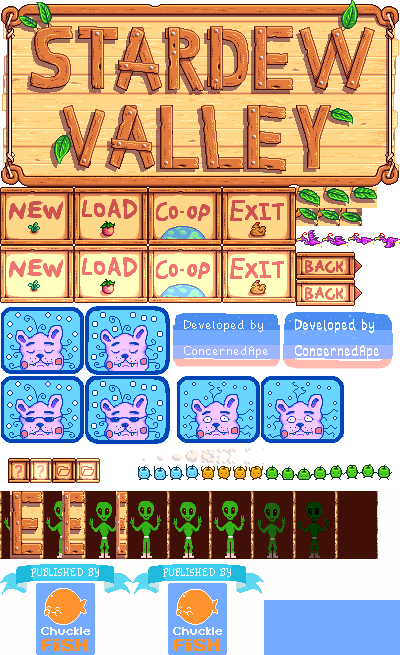
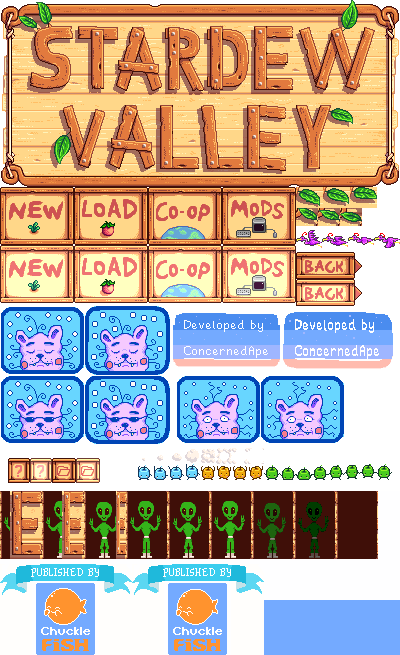
Added new texture to Mods Button & Moved Mods Folder button to left side... Also added a Mods count on the Mods Menu

Changed region(s): [[0.57, 0.3969, 0.72, 0.458], [0.57, 0.3053, 0.72, 0.3664]]

diff --git a/Mods/ModLoaderMod/Menus/ModMenu.cs b/Mods/ModLoaderMod/Menus/ModMenu.cs
@@ -27,6 +27,7 @@ namespace ModLoaderMod.Menus
         private ClickableTextureComponent scrollBar;
         private Rectangle scrollBarRunner;
         private bool scrolling;
+        private string hoverText;
 
         public ModMenu()
           : base(Game1.viewport.Width / 2 - (1050 + borderWidth * 2) / 2, Game1.viewport.Height / 2 - (600 + borderWidth * 2) / 2, 800 + borderWidth * 2, 600 + borderWidth * 2)
@@ -175,6 +176,8 @@ namespace ModLoaderMod.Menus
             upArrow.tryHover(x, y);
             downArrow.tryHover(x, y);
             scrollBar.tryHover(x, y);
+
+            hoverText = "";
             
             if (scrolling)
                 return;
@@ -186,6 +189,8 @@ namespace ModLoaderMod.Menus
                     _optionSlots[index].scale = Math.Min(_optionSlots[index].scale + 0.03f, 1.1f);
 
                     _modToggles[_currentItemIndex + index].IsHovered = _optionSlots[index].bounds.Contains(x, y) && _modToggles[_currentItemIndex + index].bounds.Contains(x - _optionSlots[index].bounds.X, y - _optionSlots[index].bounds.Y);
+
+                    hoverText = _modOptions[_modToggles[_currentItemIndex + index]].Description;
                 }
                 else
                     _optionSlots[index].scale = Math.Max(1f, _optionSlots[index].scale - 0.03f);
@@ -219,8 +224,22 @@ namespace ModLoaderMod.Menus
                     _modToggles[_currentItemIndex + index].draw(b, _optionSlots[index].bounds.X, _optionSlots[index].bounds.Y + Game1.pixelZoom * 18);
                 }
             }
-            
+
+            var loaded = _modToggles.Count(_ => _.IsChecked);
+            var total = _modToggles.Count;
+            var loadedTextMeasure = Game1.dialogueFont.MeasureString($"Mods Loaded: {loaded}");
+            Utility.drawTextWithShadow(b, $"Mods Loaded: {loaded}", Game1.dialogueFont, new Vector2(xPositionOnScreen + width + 78, height - (78 + loadedTextMeasure.Y)), Color.White, 0.7f);
+            Utility.drawTextWithShadow(b, $"Mods Installed: {total}", Game1.dialogueFont, new Vector2(xPositionOnScreen + width + 78, height - (72 + loadedTextMeasure.Y) + 24), Color.White, 0.7f);
+
             b.Draw(Game1.mouseCursors, new Vector2(Game1.getOldMouseX(), Game1.getOldMouseY()), Game1.getSourceRectForStandardTileSheet(Game1.mouseCursors, 0, 16, 16), Color.White, 0.0f, Vector2.Zero, Game1.pixelZoom + Game1.dialogueButtonScale / 150f, SpriteEffects.None, 1f);
+
+            if (!String.IsNullOrEmpty(hoverText)) {
+                string lines = string.Join(Environment.NewLine, hoverText.Split()
+                                     .Select((word, index) => new { word, index })
+                                     .GroupBy(x => x.index / 4)
+                                     .Select(grp => string.Join(" ", grp.Select(x => x.word))));
+                drawHoverText(b, lines, Game1.dialogueFont);
+            }
         }
 
         public override void receiveRightClick(int x, int y, bool playSound = true)

diff --git a/Libraries/FarmhandUI/TitleMenu.cs b/Libraries/FarmhandUI/TitleMenu.cs
@@ -117,7 +117,7 @@ namespace Farmhand.Overrides.UI
             
             var num = height < 800 ? 2 : 3;
             eRect = new Rectangle(width / 2 - 200 * num + 251 * num, -300 * num - (int)(viewportY / 3.0) * num + 26 * num, 42 * num, 68 * num);
-            folderButton = new ClickableTextureComponent("Folder", new Rectangle(width - 66 - 48, height - 150 - 48, 72, 75), "", "Folder", TextureRegistry.GetItem("modTitleMenu").Texture, new Rectangle(52, 458, 24, 25), 3f, false);
+            folderButton = new ClickableTextureComponent("Folder", new Rectangle(57, height - 75 - 24, 72, 75), "", "Mods Folder", TextureRegistry.GetItem("modTitleMenu").Texture, new Rectangle(52, 458, 24, 25), 3f, false);
             backButton = new ClickableTextureComponent("Back", new Rectangle(width - 198 - 48, height - 81 - 24, 198, 81),"", "Back", titleButtonsTexture, new Rectangle(296, 252, 66, 27), 3f, false);
             aboutButton = new ClickableTextureComponent("About", new Rectangle(width - 66 - 48, height - 75 - 24, 66, 75), "", "About", titleButtonsTexture, new Rectangle(8, 458, 22, 25), 3f, false);
             skipButton = new ClickableComponent(new Rectangle(width / 2 - 261, height / 2 - 102, 249, 201), "Skip", "");
@@ -157,7 +157,7 @@ namespace Farmhand.Overrides.UI
                 
                 folderButton.sourceRect.X = 76;
 
-                hoverText = "Mods Folder";
+                hoverText = folderButton.hoverText;
             }
             else
                 folderButton.sourceRect.X = 52;
@@ -175,7 +175,7 @@ namespace Farmhand.Overrides.UI
                 drawHoverText(b, hoverText, Game1.dialogueFont);
 
             if (QuitTimer > 0)
-                b.Draw(Game1.staminaRect, new Rectangle(0, 0, width, height), Color.Black * (1 - QuitTimer / 500));
+                b.Draw(Game1.staminaRect, new Rectangle(0, 0, width, height), Color.Black * (1f - QuitTimer / 500f));
 
             drawMouse(b);
         }
